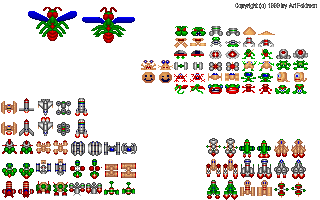
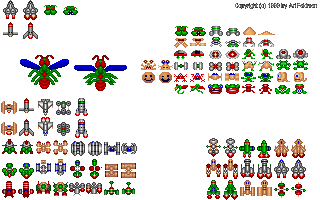
ld28: can fire a rocket now; enemies die.

Changed region(s): [[0.0, 0.0, 0.4375, 0.21], [0.0625, 0.27, 0.4062, 0.45]]

diff --git a/ld28-singlshot/game.cpp b/ld28-singlshot/game.cpp
@@ -43,14 +43,20 @@ Game::Game()
     m_controller->GetKey(KEY_UP).Bind("Keyboard", "W");
     m_controller->GetKey(KEY_UP).Bind("Keyboard", "Z");
     m_controller->GetKey(KEY_DOWN).Bind("Keyboard", "S");
+    /* Fire */
+    m_controller->GetKey(KEY_FIRE).Bind("Keyboard", "Space");
 
     /* First tileset */
     m_tiles[0] = Tiler::Register("data/tiles1.png");
 
     /* Second tileset */
     m_tiles[1] = Tiler::Register("data/tiles2.png");
-    m_tiles[1]->AddTile(ibox2(0, 100, 18, 118)); /* ship */
-    m_tiles[1]->AddTile(ibox2(174, 24, 190, 38)); /* alien 1 */
+    m_tiles[1]->AddTile(ibox2(0, 0, 20, 20)); /* ship */
+    m_tiles[1]->AddTile(ibox2(20, 0, 40, 20)); /* ship */
+    m_tiles[1]->AddTile(ibox2(40, 0, 60, 20)); /* alien 1 */
+    m_tiles[1]->AddTile(ibox2(60, 0, 80, 20)); /* alien 1 */
+    m_tiles[1]->AddTile(ibox2(0, 20, 20, 40)); /* rocket */
+    m_tiles[1]->AddTile(ibox2(20, 20, 40, 40)); /* rocket */
 
     m_camera = new Camera();
     m_camera->SetView(mat4(1.f));
@@ -79,6 +85,9 @@ Game::Game()
 
     m_camera_pos = vec3(0.f, 0.f, 0.f);
 
+    m_power = 1;
+
+    m_time = 0.0;
     m_ready = false;
 }
 
@@ -90,6 +99,12 @@ Game::~Game()
     Ticker::Unref(m_hud);
     Ticker::Unref(m_ship);
     Ticker::Unref(m_starfield);
+    for (int i = 0; i < m_explosions.Count(); ++i)
+        Ticker::Unref(m_powerups[i]);
+    for (int i = 0; i < m_powerups.Count(); ++i)
+        Ticker::Unref(m_powerups[i]);
+    for (int i = 0; i < m_rockets.Count(); ++i)
+        Ticker::Unref(m_rockets[i]);
     for (int i = 0; i < m_waves.Count(); ++i)
         Ticker::Unref(m_waves[i]);
 
@@ -100,6 +115,8 @@ Game::~Game()
 void Game::TickGame(float seconds)
 {
     WorldEntity::TickGame(seconds);
+
+    m_time += seconds;
 
 //    m_camera_pos += 0.02f * (m_ship->m_position - m_camera_pos);
 
@@ -114,6 +131,43 @@ void Game::TickGame(float seconds)
                                  -ARENA.x / 2 + 9.f, ARENA.x / 2 - 9.f);
     m_ship->m_position.y = clamp(m_ship->m_position.y,
                                  -ARENA.y / 2 + 9.f, ARENA.y / 2 - 9.f);
+
+    /* Advance rockets */
+    for (int i = m_rockets.Count(); i--; )
+    {
+        m_rockets[i]->m_position.y += ROCKET_SPEED * seconds;
+
+        if (m_rockets[i]->m_position.y > ARENA.y + 15.f)
+        {
+            Ticker::Unref(m_rockets[i]);
+            m_rockets.Remove(i);
+        }
+    }
+
+    /* Advance explosions */
+    for (int i = m_explosions.Count(); i--; )
+    {
+        if (m_explosions[i]->m_time > 5.f)
+        {
+            Ticker::Unref(m_explosions[i]);
+            m_explosions.Remove(i);
+        }
+    }
+
+    /* Resolve fire */
+    if (m_power && m_controller->GetKey(KEY_FIRE).IsDown())
+    {
+        m_power = 0;
+        m_rockets.Push(new Thing(this, 1, 5));
+        m_rockets.Last()->m_position = m_ship->m_position;
+        Ticker::Ref(m_rockets.Last());
+    }
+
+    /* Advance powerups */
+    for (int i = 0; i < m_powerups.Count(); ++i)
+    {
+        m_powerups[i]->m_position.y -= SCROLL_SPEED * seconds;
+    }
 }
 
 void Game::TickDraw(float seconds)
@@ -131,7 +185,9 @@ void Game::KillPlayer()
 {
     if (!m_ship->m_dead)
     {
-        (new Explosion(this))->m_position = m_ship->m_position;
+        m_explosions.Push(new Explosion(this));
+        m_explosions.Last()->m_position = m_ship->m_position;
+        Ticker::Ref(m_explosions.Last());
     }
 
     m_ship->m_dead = true;

diff --git a/ld28-singlshot/wave.cpp b/ld28-singlshot/wave.cpp
@@ -21,9 +21,11 @@ using namespace lol;
 #include "game.h"
 #include "thing.h"
 #include "wave.h"
+#include "explosion.h"
 
 Wave::Wave(Game *game, int type)
-  : m_game(game),
+  : m_dead(false),
+    m_game(game),
     m_type(type)
 {
     switch(type)
@@ -31,7 +33,7 @@ Wave::Wave(Game *game, int type)
     case 0:
         for (int i = 0; i < 10; ++i)
         {
-            m_things.Push(new Thing(game, 1, 1));
+            m_things.Push(new Thing(game, 1, 2));
             Ticker::Ref(m_things.Last());
             m_things.Last()->m_position = vec3((i - 4.5f) * 25.f, ARENA.y, 10.f);
         }
@@ -54,15 +56,40 @@ void Wave::TickGame(float seconds)
         /* Scroll down */
         m_things[i]->m_position += vec3(0.f, -SCROLL_SPEED, 0.f) * seconds;
 
-        /* Check collisions */
-        if (!m_things[i]->m_dead && distance(m_game->m_ship->m_position.xy,
-                                            m_things[i]->m_position.xy) < 12.f)
-            m_game->KillPlayer();
+        HandleCollisions(m_things[i]);
     }
 }
 
 void Wave::TickDraw(float seconds)
 {
     WorldEntity::TickDraw(seconds);
+}
+
+void Wave::HandleCollisions(Thing *thing)
+{
+    if (thing->m_dead)
+        return;
+
+    /* Check collisions with player */
+    if (distance(m_game->m_ship->m_position.xy, thing->m_position.xy) < 12.f)
+        m_game->KillPlayer();
+
+    /* Check collisions with rockets */
+    for (int i = 0; i < m_game->m_rockets.Count(); ++i)
+    {
+        if (m_game->m_rockets[i]->m_dead)
+            continue;
+
+        if (distance(m_game->m_rockets[i]->m_position.xy,
+                     thing->m_position.xy) < 12.f)
+        {
+            m_game->m_explosions.Push(new Explosion(m_game));
+            m_game->m_explosions.Last()->m_position = thing->m_position;
+            Ticker::Ref(m_game->m_explosions.Last());
+
+            thing->m_dead = true;
+            m_game->m_rockets[i]->m_dead = true;
+        }
+    }
 }
 

diff --git a/ld28-singlshot/explosion.h b/ld28-singlshot/explosion.h
@@ -23,8 +23,8 @@ class Explosion : public WorldEntity
 {
 public:
     Explosion(Game *game) :
-        m_game(game),
         m_time(0.0),
+        m_game(game),
         m_ready(false)
     {
         m_vertices << vec2(-1.0,  1.0);
@@ -70,6 +70,9 @@ public:
         m_vdecl->Unbind();
     }
 
+public:
+    float m_time;
+
 private:
     Game *m_game;
 
@@ -80,7 +83,6 @@ private:
     VertexDeclaration *m_vdecl;
     VertexBuffer *m_vbo;
 
-    float m_time;
     bool m_ready;
 };
 

diff --git a/ld28-singlshot/game.h b/ld28-singlshot/game.h
@@ -31,11 +31,17 @@ private:
     TileSet *m_tiles[2];
 
     class Starfield *m_starfield;
+    Array<class Explosion *> m_explosions;
     class Hud *m_hud;
     class Thing *m_ship;
+    Array<class Thing *> m_rockets;
+    Array<class Thing *> m_powerups;
     Array<class Wave *> m_waves;
 
     vec3 m_camera_pos;
+
+    int m_power;
+    double m_time;
 
     bool m_ready;
 };

diff --git a/ld28-singlshot/ld28.h b/ld28-singlshot/ld28.h
@@ -20,6 +20,7 @@ vec2 const ARENA(320.f, 240.f);
 
 float const SCROLL_SPEED = 50.f;
 float const SHIP_SPEED = 180.0f;
+float const ROCKET_SPEED = 240.0f;
 
 enum
 {
@@ -27,6 +28,7 @@ enum
     KEY_RIGHT,
     KEY_UP,
     KEY_DOWN,
+    KEY_FIRE,
     KEY_MAX,
 };
 

diff --git a/ld28-singlshot/wave.h b/ld28-singlshot/wave.h
@@ -18,6 +18,12 @@ public:
     virtual void TickDraw(float seconds);
 
 private:
+    void HandleCollisions(Thing *thing);
+
+public:
+    bool m_dead;
+
+private:
     Game *m_game;
     int m_type;
     Array<Thing *> m_things;
